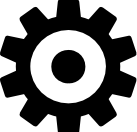
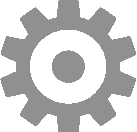
added dark mode

diff --git a/index.html b/index.html
@@ -390,7 +390,7 @@ function start_spinner(target_id) {
     radius: 10, // The radius of the inner circle
     corners: 1, // Corner roundness (0..1)
     rotate: 0, // The rotation offset
-    color: '#000', // #rgb or #rrggbb
+    color: '#909090', // #rgb or #rrggbb
     speed: 1, // Rounds per second
     trail: 60, // Afterglow percentage
     shadow: false, // Whether to render a shadow
@@ -1369,8 +1369,7 @@ function random_text(){
       "Age: 26, Appearance: Medium height, black hair, Background: Teacher.",
       "Age: 32, Appearance: Blond, green eyes, Background: Nurse.",
       "Age: 23, Appearance: Short with curly hair, Background: Graphic designer.",
-      "Age: 30, Appearance: Average build, Background: Policeman.",
-      "Age: 28, Appearance: Athletic with tattoos, Background: MMA fighter.",
+      "Age: 30, Appearance: Average build, Background: Social Worker.",
       "Age: 35, Appearance: Tall with a beard, Background: Writer.",
       "Age: 22, Appearance: Petite with piercings, Background: Dancer.",
       "Age: 29, Appearance: Muscular with blue eyes, Background: Soldier.",
@@ -1380,7 +1379,7 @@ function random_text(){
       "Age: 24, Appearance: Slender with glasses, Background: Student.",
       "Age: 40, Appearance: Curly hair, average build, Background: Engineer.",
       "Age: 34, Appearance: Tall with tattoos, Background: Musician.",
-      "Age: 25, Appearance: Athletic, short hair, Background: Police officer.",
+      "Age: 25, Appearance: Athletic, short hair, Background: Public Defender.",
       "Age: 28, Appearance: Average height, blonde, Background: Actor.",
       "Age: 32, Appearance: Tall with green eyes, Background: Lawyer.",
       "Age: 23, Appearance: Short with black hair, Background: Programmer.",
@@ -1397,8 +1396,6 @@ function random_text(){
       "Age: 37, Appearance: Medium height, blonde, Background: CEO.",
       "Age: 26, Appearance: Short with blue eyes, Background: Photographer.",
       "Age: 29, Appearance: Tall with green eyes, Background: Historian.",
-      "Age: 32, Appearance: Average height, black hair, Background: Policeman.",
-      "Age: 31, Appearance: Athletic with red hair, Background: MMA fighter.",
       "Age: 27, Appearance: Tall with a beard, Background: Writer.",
       "Age: 23, Appearance: Petite with piercings, Background: Dancer.",
       "Age: 28, Appearance: Muscular with blue eyes, Background: Soldier.",
@@ -1445,7 +1442,7 @@ function random_text(){
       "Age: 26, Appearance: Medium height, black hair, Background: Teacher.",
       "Age: 32, Appearance: Blond, green eyes, Background: Nurse.",
       "Age: 23, Appearance: Short with curly hair, Background: Graphic designer.",
-      "Age: 30, Appearance: Average build, Background: Policeman.",
+      "Age: 30, Appearance: Average build, Background: Librarian.",
       "Age: 28, Appearance: Athletic with tattoos, Background: MMA fighter.",
       "Age: 35, Appearance: Tall with a beard, Background: Writer.",
       "Age: 22, Appearance: Petite with piercings, Background: Dancer.",
@@ -1473,7 +1470,7 @@ function random_text(){
       "Age: 37, Appearance: Medium height, blonde, Background: CEO.",
       "Age: 26, Appearance: Short with blue eyes, Background: Photographer.",
       "Age: 29, Appearance: Tall with green eyes, Background: Historian.",
-      "Age: 32, Appearance: Average height, black hair, Background: Policeman.",
+      "Age: 32, Appearance: Average height, black hair, Background: Musician.",
       "Age: 31, Appearance: Athletic with red hair, Background: MMA fighter.",
       "Age: 27, Appearance: Tall with a beard, Background: Writer.",
       "Age: 23, Appearance: Petite with piercings, Background: Dancer.",
@@ -2299,16 +2296,16 @@ document.addEventListener('DOMContentLoaded', function() {
 
   #send {
     float:left;
-    width: calc(100% - 185px);
+    width: calc(100% - 180px);
     height: 27px;
     margin: 5px 5px 0px 0;
   }
 
   #random {
     float:right;
-    width:70px;
+    width: 70px;
     height: 27px;
-    margin: 5px 5px 0px 5px;
+    margin: 5px 0px 0px 5px;
   }
   
   #restartButton_companion{
@@ -2364,27 +2361,27 @@ document.addEventListener('DOMContentLoaded', function() {
 
 </style>
 </head>
-<BODY BGCOLOR="#ffffff" BACKGROUND="" MARGINWIDTH="0" MARGINHEIGHT="0">
+<BODY MARGINWIDTH="0" MARGINHEIGHT="0">
 
 <!-- Message Banner -->
 <div id="msg_bar" style="display:none;"></div>
 
 <!-- Title and share -->
 <div class="title_bar">
-    <div class="home">
-      <a href="./" tabindex="1"><img src="images/home.png" class="home_btn"></a>
-    </div>  
-    <div class="settings">
-      <a href="settings/"><img src="images/settings.png" class="settings_btn"></a>
-    </div>
-    <div id="share">
-        <div class="a2a_kit a2a_kit_size_32 a2a_default_style" data-a2a-url="https://libraryofunwrittenbooks.org/" data-a2a-title="The Library of Unwritten Books">
-          <a class="a2a_dd" href="https://www.addtoany.com/share"></a>
-        </div>
-    </div>
-    <span id="title"><a href="./" class="title_home">The Library of Unwritten Books</a></span>
-    <div id="subtitle">More stories than stars in the sky</div>
+  <div class="home">
+    <a href="javascrip:void('')" tabindex="1" id="toggle-mode">🌗</a>
+  </div>  
+  <div class="settings">
+    <a href="settings/" tabindex="4"><img src="images/settings.png" class="settings_btn"></a>
   </div>
+  <div id="share">
+      <div class="a2a_kit a2a_kit_size_32 a2a_default_style" data-a2a-url="https://libraryofunwrittenbooks.org/about/" data-a2a-title="About | The Library of Unwritten Books">
+        <a class="a2a_dd" tabindex="3" href="https://www.addtoany.com/share"></a>
+      </div>
+  </div>
+  <span id="title"><a href="./"  tabindex="2" class="title_home">The Library of Unwritten Books</a></span>
+  <div id="subtitle">More stories than stars in the sky</div>
+</div>
 
 <!-- Menu -->
 <div class="menu_bar">
@@ -2454,7 +2451,7 @@ document.addEventListener('DOMContentLoaded', function() {
     FWIW, here are some <a href="https://github.com/colarusso/library-of-unwritten-books" target="_blank">stories in progress</a> you can upload and carry forward. Also, you can submit your own stories for inclusion.<br>
   </p>
   <p style="text-align: center;">
-    <span style="color:rgb(112, 112, 112)"><i><a href="about/" style="color:rgb(112, 112, 112)">LLMs power the library</a>. I prepaid for some usage, but when that runs out, folks will need a <a href="card/" style="color:rgb(112, 112, 112)">library card</a>.</i></span>
+    <span style="color:rgb(112, 112, 112)"><i><a href="about/" style="color:rgb(112, 112, 112)">LLMs power the library</a>. I prepay for some usage each month, but when that runs out, folks need a <a href="card/" style="color:rgb(112, 112, 112)">library card</a>.</i></span>
   </p>
   <input type="file" id="fileInput" style="display: none;"/>
   <div class="footer">

diff --git a/card/index.html b/card/index.html
@@ -50,17 +50,17 @@
 <!-- Title and share -->
 <div class="title_bar">
   <div class="home">
-    <a href="./" tabindex="1"><img src="images/home.png" class="home_btn"></a>
+    <a href="javascrip:void('')" tabindex="1" id="toggle-mode">🌗</a>
   </div>  
   <div class="settings">
-    <a href="settings/"><img src="images/settings.png" class="settings_btn"></a>
+    <a href="settings/" tabindex="4"><img src="images/settings.png" class="settings_btn"></a>
   </div>
   <div id="share">
-      <div class="a2a_kit a2a_kit_size_32 a2a_default_style" data-a2a-url="https://libraryofunwrittenbooks.org/card/" data-a2a-title="Library Card | The Library of Unwritten Books">
-        <a class="a2a_dd" href="https://www.addtoany.com/share"></a>
+      <div class="a2a_kit a2a_kit_size_32 a2a_default_style" data-a2a-url="https://libraryofunwrittenbooks.org/about/" data-a2a-title="About | The Library of Unwritten Books">
+        <a class="a2a_dd" tabindex="3" href="https://www.addtoany.com/share"></a>
       </div>
   </div>
-  <span id="title"><a href="./" class="title_home">The Library of Unwritten Books</a></span>
+  <span id="title"><a href="./"  tabindex="2" class="title_home">The Library of Unwritten Books</a></span>
   <div id="subtitle">More stories than stars in the sky</div>
 </div>
 
@@ -121,7 +121,7 @@
   </ol>
   <p>After solving a puzzle to prove you're human, you will be provided with your API key. Use this and the "API Base" <code>https://api.openai.com/v1/chat/completions</code> above.</p>
       <p>
-    <span style="background:yellow;">If you receive an error when trying to use your key, make sure to check the state of any credits <a href="https://platform.openai.com/usage" target="_blank">here</a>. If you don't have any credits, you will need a billing method on file with OpenAI.</span>
+    <b>If you receive an error when trying to use your key, make sure to check the state of any credits <a href="https://platform.openai.com/usage" target="_blank">here</a>. If you don't have any credits, you will need a billing method on file with OpenAI.</b>
   </p>
 
   <p>

diff --git a/css/style.css b/css/style.css
@@ -2,7 +2,7 @@
 	box-sizing: border-box;
 }
 
-body {
+.body {
 	background-color: #fff;
 	background-repeat: repeat-x;
 	background-position: top -65px center;
@@ -10,6 +10,70 @@ body {
 	font-size: 16px;
 	line-height: 22px;
 }
+
+#toggle-mode {
+	vertical-align: top;
+	font-size: 34px;
+	line-height: 45px;
+	text-decoration: none;
+}
+
+.dark-mode {
+    background-color: #333;
+    color: #fff;
+}
+
+.dark-mode a {
+    color: #88e3ff;
+}
+
+.dark-mode .input_text {
+	color: black;
+}
+
+.dark-mode .title_home {
+	color: black;
+	color: rgb(255, 255, 255);
+}
+
+.dark-mode #subtitle {
+	color: rgb(209, 209, 209);
+}
+
+.dark-mode .menu_item {
+	color: white;
+}
+
+.dark-mode .menu_item:hover{
+	background-color: #454545;
+}
+
+.dark-mode .choosen {
+	border-bottom: solid 4px #5e5e5f;
+}
+
+.dark-mode textarea {
+	background: #7b7b7b;
+	padding: 3px;
+	border-radius: 3px;
+	color:white;
+	border: 0;
+}
+
+
+.dark-mode button {
+	color: rgb(255, 255, 255);
+	background: rgb(98, 98, 98);
+}
+
+.dark-mode .footer {
+	color: rgb(184, 184, 184);
+}
+
+.dark-mode code {
+	color:black;
+}
+
 
 button {
 	-webkit-appearance:none;
@@ -334,7 +398,7 @@ a.title_home {
 	color:#555;
 }
 
-a.anchor, a.anchor:focus {
+a.anchor {
 	display:block;
 	float:right;
 	margin-left:30px;
@@ -345,6 +409,10 @@ a.anchor, a.anchor:focus {
 	background-repeat: no-repeat;
 	background-position: center;
 	outline: none;
+}
+
+.dark-mode a.anchor {
+	background-image: url("../images/link_white.png");
 }
 
 hr {
@@ -541,15 +609,25 @@ code{
 
 	.home {
 		position: absolute;
+		font-size: 26px;
 		width:58px;
+		height:25px;
 	}
 	#share{
 		width: 29px;
 	}
-	.home_btn {
+	#toggle-mode {
+		vertical-align: text-bottom;
+		font-size: 25px;
+		line-height: 25px;
+		height:25px;
+	}
+	.settings {
+		font-size: 25px;
 		height:25px;
 	}
 	.settings_btn {
+		font-size: 25px;
 		height:25px;
 	}
 	.a2a_svg{

diff --git a/about/index.html b/about/index.html
@@ -52,17 +52,17 @@ What an astonishing thing a book is. It's a flat object made from a tree with fl
 <!-- Title and share -->
 <div class="title_bar">
   <div class="home">
-    <a href="./" tabindex="1"><img src="images/home.png" class="home_btn"></a>
+    <a href="javascrip:void('')" tabindex="1" id="toggle-mode">🌗</a>
   </div>  
   <div class="settings">
-    <a href="settings/"><img src="images/settings.png" class="settings_btn"></a>
+    <a href="settings/" tabindex="4"><img src="images/settings.png" class="settings_btn"></a>
   </div>
   <div id="share">
       <div class="a2a_kit a2a_kit_size_32 a2a_default_style" data-a2a-url="https://libraryofunwrittenbooks.org/about/" data-a2a-title="About | The Library of Unwritten Books">
-        <a class="a2a_dd" href="https://www.addtoany.com/share"></a>
+        <a class="a2a_dd" tabindex="3" href="https://www.addtoany.com/share"></a>
       </div>
   </div>
-  <span id="title"><a href="./" class="title_home">The Library of Unwritten Books</a></span>
+  <span id="title"><a href="./"  tabindex="2" class="title_home">The Library of Unwritten Books</a></span>
   <div id="subtitle">More stories than stars in the sky</div>
 </div>
 

diff --git a/settings/index.html b/settings/index.html
@@ -50,17 +50,17 @@
 <!-- Title and share -->
 <div class="title_bar">
   <div class="home">
-    <a href="./" tabindex="1"><img src="images/home.png" class="home_btn"></a>
+    <a href="javascrip:void('')" tabindex="1" id="toggle-mode">🌗</a>
   </div>  
   <div class="settings">
-    <a href="settings/"><img src="images/settings.png" class="settings_btn"></a>
+    <a href="settings/" tabindex="4"><img src="images/settings.png" class="settings_btn"></a>
   </div>
   <div id="share">
       <div class="a2a_kit a2a_kit_size_32 a2a_default_style" data-a2a-url="https://libraryofunwrittenbooks.org/about/" data-a2a-title="About | The Library of Unwritten Books">
-        <a class="a2a_dd" href="https://www.addtoany.com/share"></a>
+        <a class="a2a_dd" tabindex="3" href="https://www.addtoany.com/share"></a>
       </div>
   </div>
-  <span id="title"><a href="./" class="title_home">The Library of Unwritten Books</a></span>
+  <span id="title"><a href="./"  tabindex="2" class="title_home">The Library of Unwritten Books</a></span>
   <div id="subtitle">More stories than stars in the sky</div>
 </div>
 

diff --git a/tips/index.html b/tips/index.html
@@ -50,17 +50,17 @@
 <!-- Title and share -->
 <div class="title_bar">
   <div class="home">
-    <a href="./" tabindex="1"><img src="images/home.png" class="home_btn"></a>
+    <a href="javascrip:void('')" tabindex="1" id="toggle-mode">🌗</a>
   </div>  
   <div class="settings">
-    <a href="settings/"><img src="images/settings.png" class="settings_btn"></a>
+    <a href="settings/" tabindex="4"><img src="images/settings.png" class="settings_btn"></a>
   </div>
   <div id="share">
       <div class="a2a_kit a2a_kit_size_32 a2a_default_style" data-a2a-url="https://libraryofunwrittenbooks.org/about/" data-a2a-title="About | The Library of Unwritten Books">
-        <a class="a2a_dd" href="https://www.addtoany.com/share"></a>
+        <a class="a2a_dd" tabindex="3" href="https://www.addtoany.com/share"></a>
       </div>
   </div>
-  <span id="title"><a href="./" class="title_home">The Library of Unwritten Books</a></span>
+  <span id="title"><a href="./"  tabindex="2" class="title_home">The Library of Unwritten Books</a></span>
   <div id="subtitle">More stories than stars in the sky</div>
 </div>
 

diff --git a/js/functions.js b/js/functions.js
@@ -13,4 +13,25 @@ document.addEventListener('DOMContentLoaded', function () {
         document.getElementById('msg_bar').style.display='block';    
     }
 
+    const toggleModeButton = document.getElementById("toggle-mode");
+  
+    // Retrieve dark mode state from localStorage (if available)
+    const darkModeState = localStorage.getItem("darkMode");
+    if (darkModeState === "enabled") {
+      document.body.classList.add("dark-mode");
+        toggleModeButton.innerHTML = "💡"; // Light bulb emoji
+    }
+  
+    // Toggle between light and dark mode
+    toggleModeButton.addEventListener("click", function () {
+      document.body.classList.toggle("dark-mode");
+        if (document.body.classList.contains("dark-mode")) {
+            localStorage.setItem("darkMode", "enabled");
+            toggleModeButton.innerHTML = "💡"; // Light bulb emoji
+        } else {
+            localStorage.removeItem("darkMode");
+            toggleModeButton.innerHTML = "🌗"; // Moon emoji
+        }
+    });
+
 });
